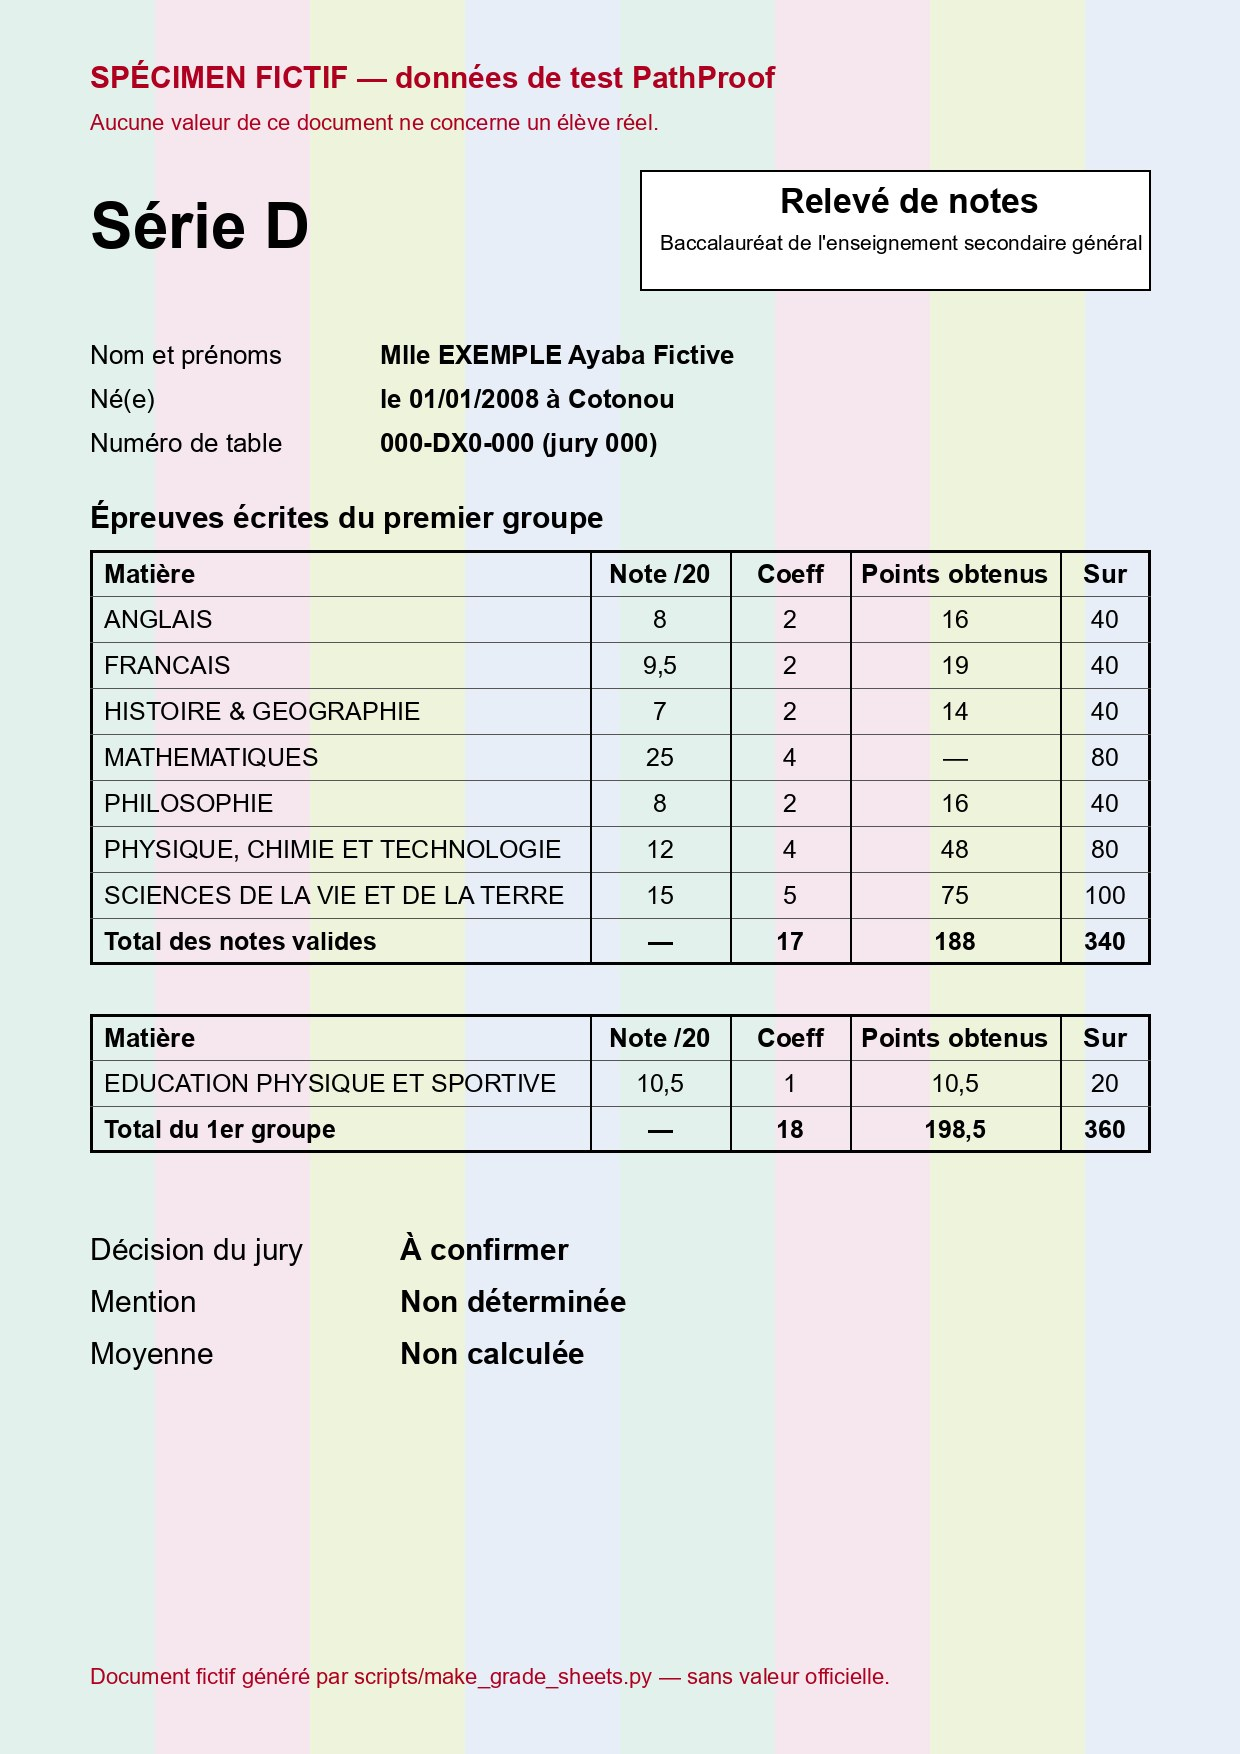
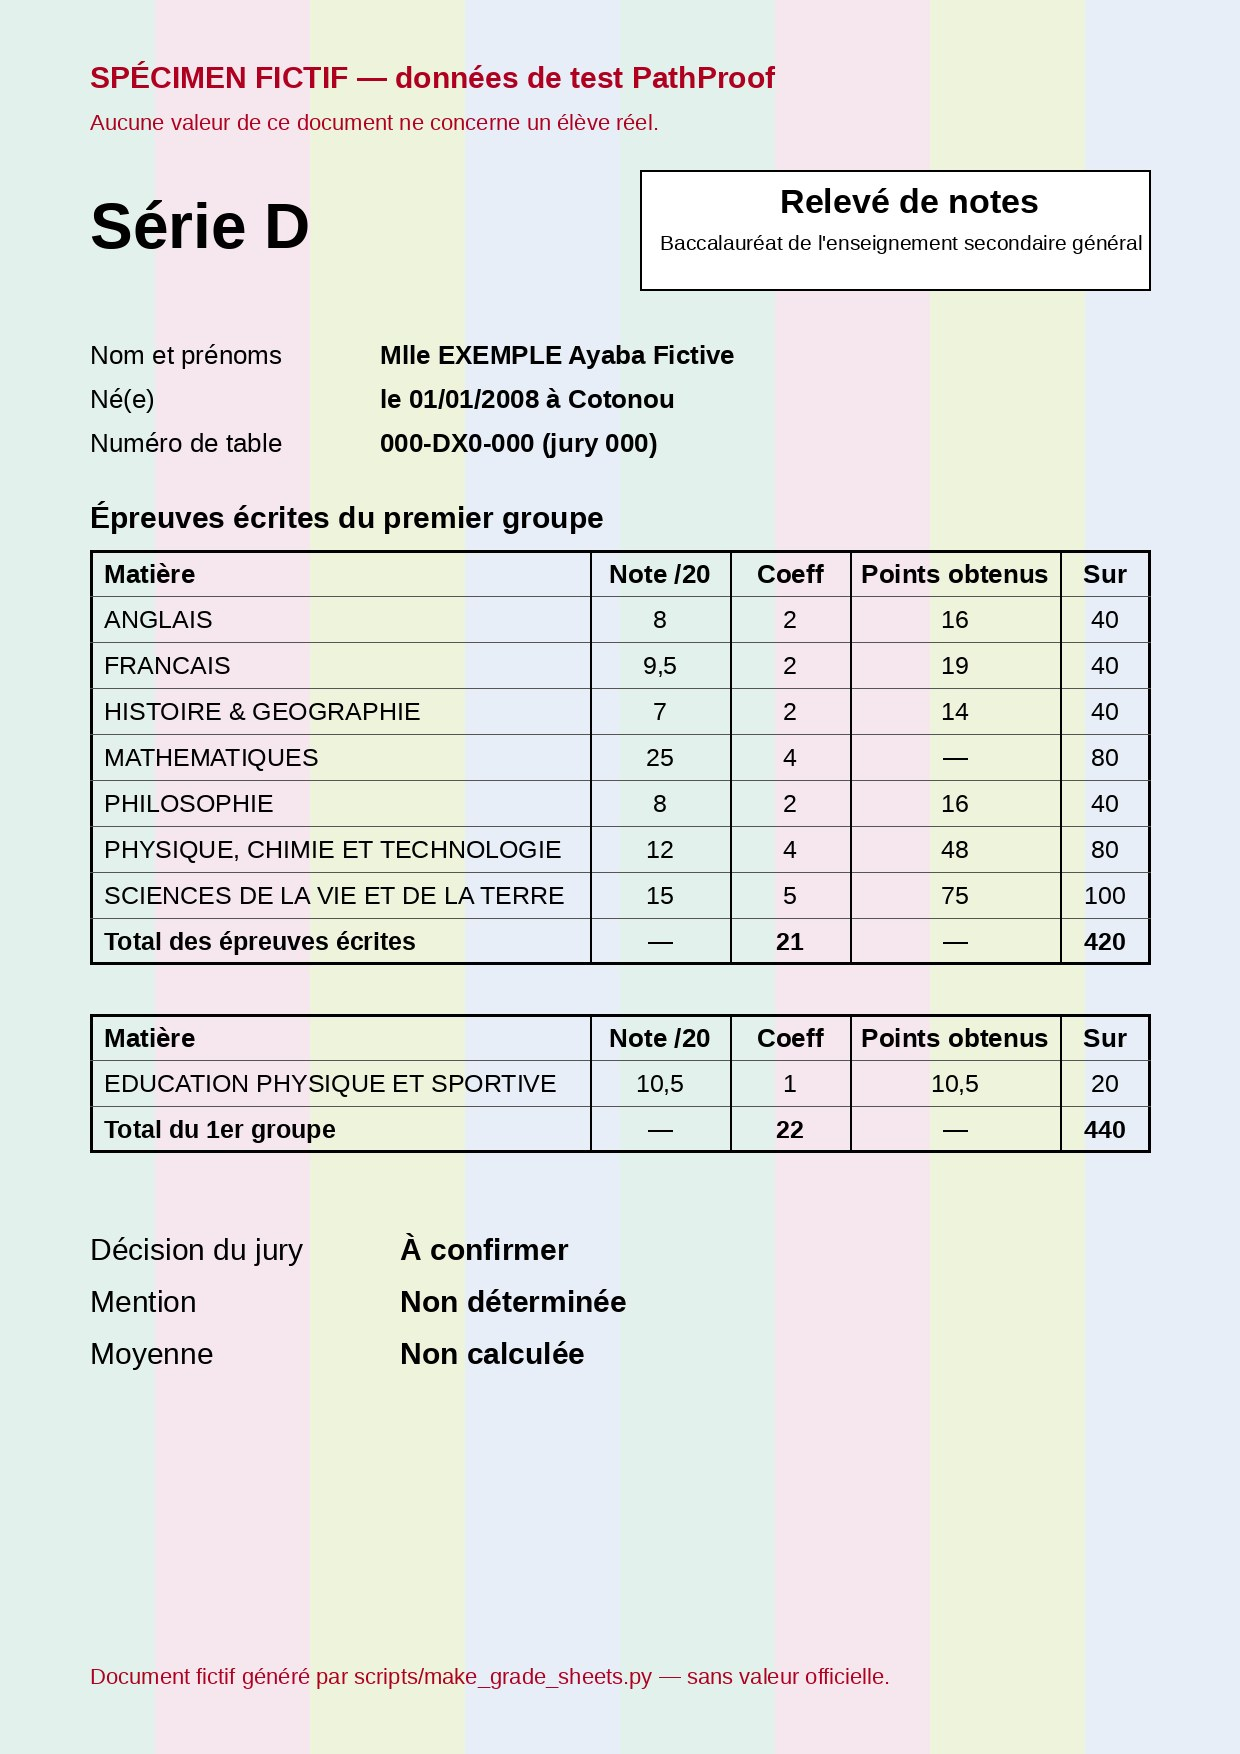
Leave every total blank on grade sheets with a grade to confirm
Derive the average from is_grade_in_range instead of a per-sheet flag, so a
missing or out-of-range grade never prints a partial total. Fall back to
Liberation Sans so the script runs on Linux.

diff --git a/scripts/make_grade_sheets.py b/scripts/make_grade_sheets.py
@@ -12,7 +12,12 @@ from pathlib import Path
 from PIL import Image, ImageDraw, ImageFilter, ImageFont
 
 SAMPLES_DIR = Path(__file__).resolve().parent.parent / "data" / "samples"
-FONT_DIR = Path("C:/Windows/Fonts")
+# Arial on Windows; Liberation Sans (same metrics) on Linux
+FONT_FILES = [
+    (Path("C:/Windows/Fonts/arial.ttf"), Path("C:/Windows/Fonts/arialbd.ttf")),
+    (Path("/usr/share/fonts/truetype/liberation/LiberationSans-Regular.ttf"),
+     Path("/usr/share/fonts/truetype/liberation/LiberationSans-Bold.ttf")),
+]
 PAGE_SIZE = (1240, 1754)  # A4 at 150 dpi
 BAND_COLORS = ["#e3f1ec", "#f6e7ee", "#eef3dc", "#e7eef8"]
 JPEG_QUALITY = 88
@@ -64,7 +69,6 @@ SHEETS["releve_serie_d_note_manquante.jpg"] = {
         (name, None if name == "MATHEMATIQUES" else note, coefficient)
         for name, note, coefficient in SHEETS["releve_serie_d.jpg"]["ecrit"]
     ],
-    "no_calculation": True,
     "decision": ("À confirmer", "Non déterminée"),
 }
 SHEETS["releve_serie_d_note_25.jpg"] = {
@@ -73,7 +77,6 @@ SHEETS["releve_serie_d_note_25.jpg"] = {
         (name, 25 if name == "MATHEMATIQUES" else note, coefficient)
         for name, note, coefficient in SHEETS["releve_serie_d.jpg"]["ecrit"]
     ],
-    "no_calculation": True,
     "decision": ("À confirmer", "Non déterminée"),
 }
 BLURRED_SOURCE = "releve_serie_d.jpg"
@@ -82,7 +85,11 @@ BLURRED_SUBJECT = "MATHEMATIQUES"
 
 
 def load_font(size: int, is_bold: bool = False) -> ImageFont.FreeTypeFont:
-    return ImageFont.truetype(str(FONT_DIR / ("arialbd.ttf" if is_bold else "arial.ttf")), size)
+    for regular, bold in FONT_FILES:
+        font_path = bold if is_bold else regular
+        if font_path.is_file():
+            return ImageFont.truetype(str(font_path), size)
+    raise FileNotFoundError(f"no Arial-metric font found in {FONT_FILES}")
 
 
 def format_number(value: float) -> str:
@@ -149,28 +156,30 @@ def render_sheet(sheet: dict) -> tuple[Image.Image, dict, float | None]:
         draw.text((380, y), value, fill="black", font=load_font(26, True))
 
     draw.text((90, 500), "Épreuves écrites du premier groupe", fill="black", font=load_font(30, True))
-    known_rows = [row for row in sheet["ecrit"] if is_grade_in_range(row[1])]
-    written_points = sum(note * coefficient for _, note, coefficient in known_rows)
-    written_coefficients = sum(coefficient for _, _, coefficient in known_rows)
+    # A missing or out-of-range note leaves every total blank: a partial
+    # total would invite an average computed from the other subjects
+    has_all_grades = all(is_grade_in_range(note) for _, note, _ in sheet["ecrit"])
+    written_points = sum(note * coefficient for _, note, coefficient in sheet["ecrit"]
+                         if is_grade_in_range(note))
+    written_coefficients = sum(coefficient for _, _, coefficient in sheet["ecrit"])
     rows = [
         (name, "—" if note is None else format_number(note), coefficient,
          format_number(note * coefficient) if is_grade_in_range(note) else "—",
          20 * coefficient)
         for name, note, coefficient in sheet["ecrit"]
     ]
-    total_label = "Total des notes valides" if sheet.get("no_calculation") else "Total des épreuves écrites"
-    total_average = "—" if sheet.get("no_calculation") else format_average(written_points / written_coefficients)
-    total = (total_label, total_average,
-             written_coefficients, format_number(written_points), 20 * written_coefficients)
+    total_average = format_average(written_points / written_coefficients) if has_all_grades else "—"
+    total = ("Total des épreuves écrites", total_average, written_coefficients,
+             format_number(written_points) if has_all_grades else "—", 20 * written_coefficients)
     bottom, note_cells = draw_table(draw, 550, rows, total)
 
     group_points = written_points + sheet["eps"]
     group_coefficients = written_coefficients + 1
-    average = None if sheet.get("no_calculation") else group_points / group_coefficients
+    average = group_points / group_coefficients if has_all_grades else None
     eps_rows = [("EDUCATION PHYSIQUE ET SPORTIVE", format_number(sheet["eps"]), 1, format_number(sheet["eps"]), 20)]
     group_average = "—" if average is None else format_average(average)
     eps_total = ("Total du 1er groupe", group_average, group_coefficients,
-                 format_number(group_points), 20 * group_coefficients)
+                 format_number(group_points) if has_all_grades else "—", 20 * group_coefficients)
     bottom, _ = draw_table(draw, bottom + 50, eps_rows, eps_total)
 
     decision, mention = sheet["decision"]
@@ -198,7 +207,7 @@ def main() -> None:
     for file_name, sheet in SHEETS.items():
         page, note_cells, average = render_sheet(sheet)
         page.save(SAMPLES_DIR / file_name, quality=JPEG_QUALITY)
-        average_text = "non calculée (note manquante)" if average is None else f"{average:.4f}"
+        average_text = "non calculée (note à confirmer)" if average is None else f"{average:.4f}"
         print(f"{file_name}: moyenne {average_text}")
         if file_name == BLURRED_SOURCE:
             blur_sheet(page, note_cells[BLURRED_SUBJECT]).save(SAMPLES_DIR / BLURRED_NAME, quality=JPEG_QUALITY)
